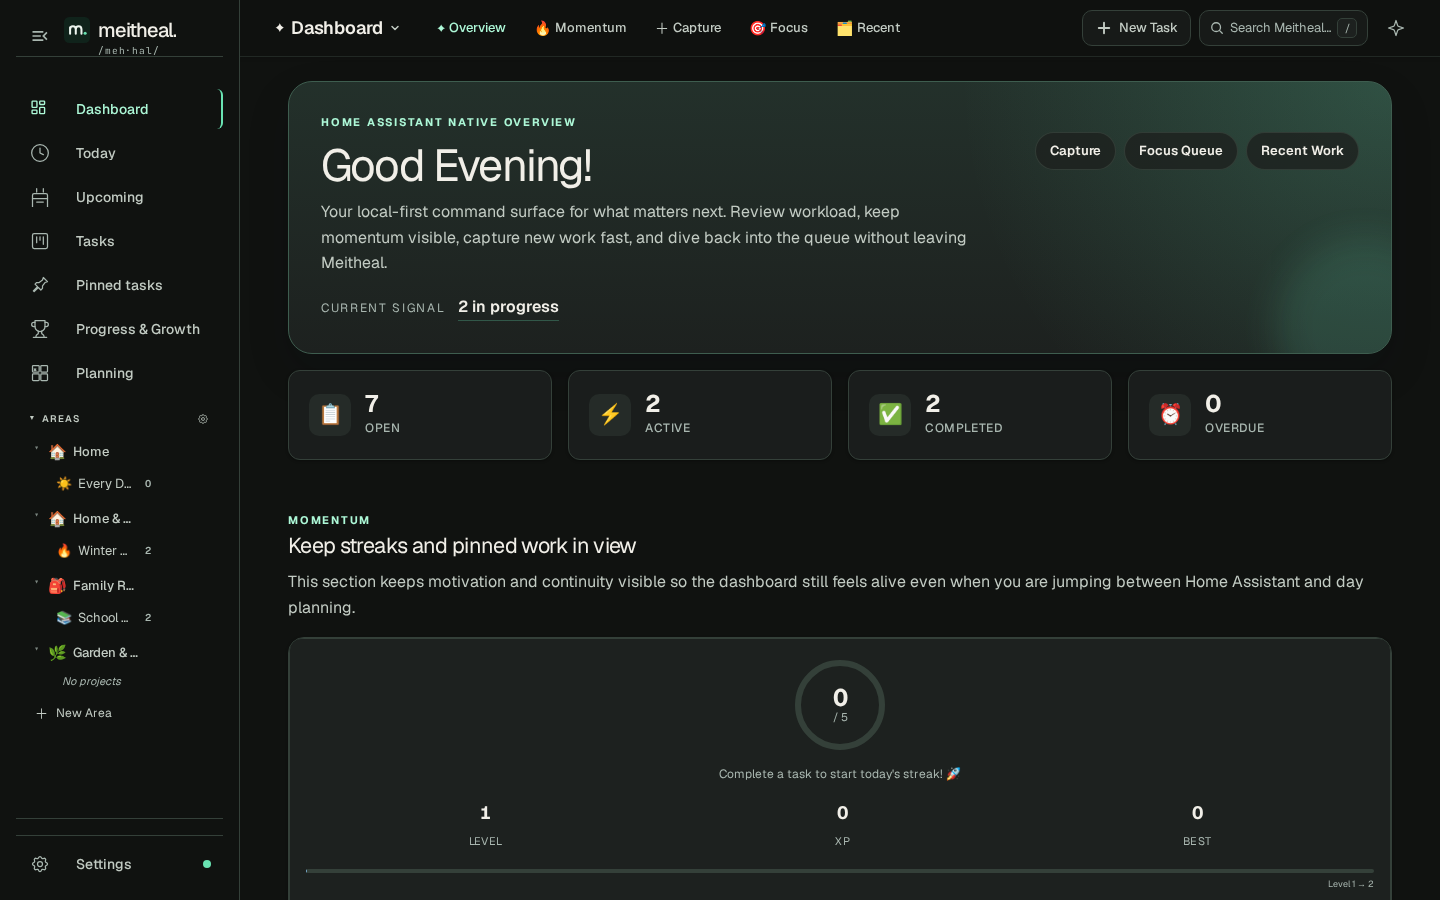
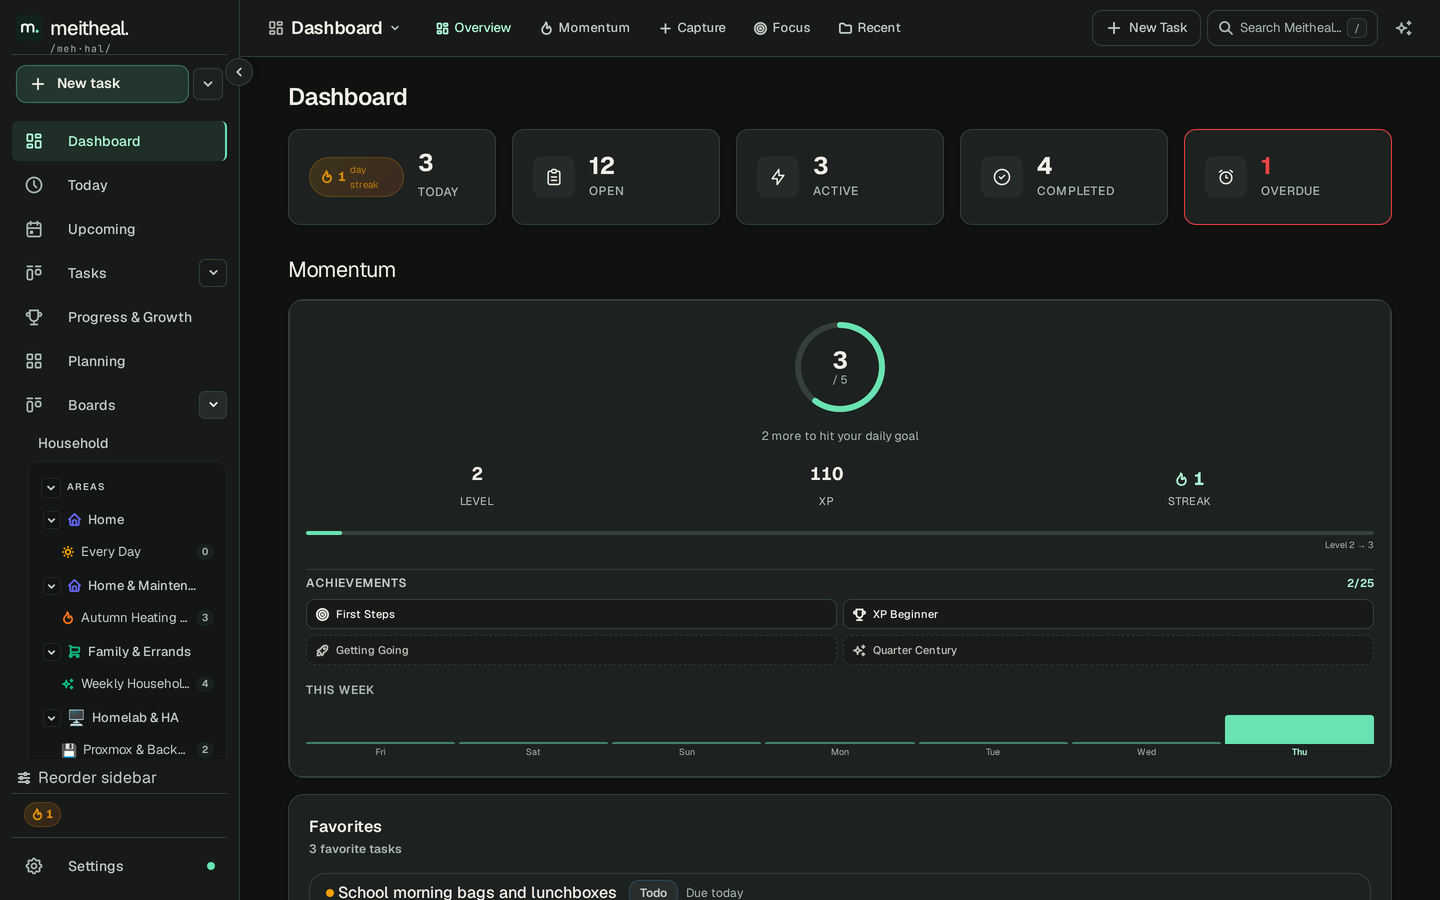
docs: refresh README screenshots, capture runbook, and workflow guides

diff --git a/docs/kcs/screenshot-and-media-capture.md b/docs/kcs/screenshot-and-media-capture.md
@@ -1,0 +1,74 @@
+---
+type: "Runbook"
+title: "Screenshot and Media Capture"
+description: "Regenerate README screenshots and local feature demos from a clean production build."
+---
+
+# Screenshot and Media Capture
+
+Use [the capture script](../../scripts/capture-marketing-media.mjs) to regenerate `README.md` screenshots and local feature animations against the real production Astro build without exposing personal household data or Astro dev-toolbar overlays.
+
+## Prerequisites
+
+Install workspace dependencies, build the web server, verify Chromium is available for Playwright, and confirm `ffmpeg` and `ffprobe` are on `PATH` (no extra npm image libraries are required; `sharp` is not used):
+
+```sh
+pnpm install --frozen-lockfile
+pnpm --filter @meitheal/web build
+pnpm --filter @meitheal/tests exec playwright install chromium
+ffmpeg -version && ffprobe -version
+```
+
+## Commands
+
+Generate only the static PNG stills and update `docs/screenshots/`:
+
+```sh
+node scripts/capture-marketing-media.mjs --stills-only --update-readme
+```
+
+Generate all 10 PNG stills, 5 CDP feature loops (`.mp4` + `.gif`), and the stitched launch highlight reel, syncing the 6 `README.md` stills to `docs/screenshots/`:
+
+```sh
+node scripts/capture-marketing-media.mjs --update-readme
+```
+
+Pass `--out <dir>` to write artifacts outside the default `.planning/marketing/media` directory, or `--base-url <url>` to capture an already-running server instance.
+
+## Isolation and Determinism
+
+Each run keeps host and developer data separate from generated media:
+
+1. **Isolated SQLite fixture**: Creates a temporary SQLite database in `os.tmpdir()` and initializes its schema with `apps/web/scripts/migrate.mjs` (`MEITHEAL_DB_URL=file:<tmp>/meitheal.db`).
+2. **Production Astro server**: Spawns `apps/web/scripts/serve.mjs` with `NODE_ENV=production` and `TZ=Europe/Dublin`, stripping Home Assistant or cloud environment credentials and restarting cleanly between seeding and capture loops to keep the 300 req/min rate-limit bucket clear.
+3. **Synthetic household seed**: Populates invented household tasks, routines, multi-day Gantt schedules, promoted cards, and Home Assistant automation fixtures (`X-Automation-Source: ha`), locking `theme` to `"dark"` (`Emerald Isle`) before capture.
+
+## Repository Hygiene and Size Budgets
+
+Keep tracked repository artifacts minimal while storing heavy animations locally:
+
+| Output | Location | Git & Docker Status | Size / Format Budget |
+|---|---|---|---|
+| Capture automation | `scripts/capture-marketing-media.mjs` | Tracked in Git | Zero runtime dependencies outside Playwright + `ffmpeg` |
+| `README` & add-on stills | `docs/screenshots/{today,dashboard,kanban,table,calendar,settings}.png` | Tracked in Git (`brand-banner.png` kept untouched) | `1440×900` (`300 KB` max per file via lossless scale + palette fallback) |
+| Campaign bonus stills | `.planning/marketing/media/stills/{timeline,focus-mode,eisenhower,mobile-today}.png` | Ignored (`.gitignore` & `.dockerignore`) | Up to `400 KB` (`390×844` for mobile) |
+| Feature motion loops | `.planning/marketing/media/loops/*.{mp4,gif}` | Ignored (`.gitignore` & `.dockerignore`) | `<= 2.8 MB` Discourse GIF ladder; `1280×720` H.264 High 4.1 MP4 |
+| Stitched highlight reel | `.planning/marketing/media/reddit/meitheal-launch-reel.mp4` | Ignored (`.gitignore` & `.dockerignore`) | `h264` `yuv420p` 30fps + stereo AAC + `+faststart` |
+
+`meitheal-hub/README.md` and `meitheal-hub-canary/README.md` reference `docs/screenshots/brand-banner.png`, `today.png`, and `kanban.png` directly from `dev`. Always visually inspect updated `docs/screenshots/*.png` files before pushing. Working notes, progress logs, launch drafts, and heavy media belong under `.planning/` (never under `docs/` or `apps/web/public/`).
+
+## Verification and Troubleshooting
+
+After updating screenshots, verify OKF documentation rules, repo standards, and tracked diff scope:
+
+```sh
+pnpm --filter @meitheal/tests test governance/docs-okf.spec.ts governance/repo-standards.spec.ts
+git status --short
+```
+
+| Symptom | Cause & Recovery |
+|---|---|
+| `Missing production build at .../dist/server/entry.mjs` | Run `pnpm --filter @meitheal/web build` before invoking the script. |
+| `Database does not exist. Run the migration command` | Fixed automatically when not using `--base-url`; with `--base-url`, run `node apps/web/scripts/migrate.mjs` against your target DB first. |
+| `HTTP 429 Rate limit exceeded` | Avoid running against a busy persistent server without `--base-url`; default mode restarts the local server between batches. |
+| `PNG ... exceeding cap 300000` or `GIF ... exceeding 2800000` | Trim hold durations in `captureLoops` or verify `ffmpeg` supports `palettegen`/`paletteuse`. |

diff --git a/README.md b/README.md
@@ -34,20 +34,21 @@ Meitheal sits naturally between **Home Assistant automations** and **everyday ho
 | Multi-step seasonal prep | **Winter Boiler and Heating Prep** project | Tracks contractor quotes, radiator bleeding, and pressure checks in **Kanban** or **Table** |
 
 - **Start in Today**: Review due work, recurring routines, carried-forward items, and evening wrap-up in one focused view.
-- **Plan at the right altitude**: Switch between **Kanban**, **Table**, **Calendar**, and **Timeline**, or search everything instantly via [Search Hub](docs/kcs/search-hub-guide.md) (`/` or `Ctrl/Cmd + K`).
+- **Plan at the right altitude**: Organize work across dedicated **Boards**, switch between **Kanban**, **Table**, **Calendar**, and **Timeline**, open distraction-free **Focus Mode** with RICE scoring and **Auto-score with Assist**, or search everything via [Search Hub](docs/kcs/search-hub-guide.md) (`/` or `Ctrl/Cmd + K`).
+- **Look & Feel made for Home Assistant**: Choose **Emerald Isle**, **Knight Rider**, **Light**, or enable **Match Home Assistant theme** so surfaces and accents follow your Home Assistant dashboard.
 - **Stay inside Home Assistant**: Two-way calendar and `todo.meitheal_tasks` sync, Home Assistant sensors and services, Assist voice intents, webhooks, and scoped LLM/MCP agent tokens.
 - **Use on any screen — even offline**: Open through Home Assistant Ingress, launch via Companion deep links, or [install the PWA](docs/kcs/pwa-offline-guide.md) with offline task queuing.
 - **Own your data completely**: Local SQLite database covered by [Home Assistant backups](docs/kcs/home-assistant-backup-and-restore.md), plus one-click JSON, CSV, and raw SQLite exports.
 
 ## Inside Meitheal
 
-| Today — Daily Focus & Routines | Household Dashboard & Focus Queue |
+| Today — Priority Stack & Routines | Dashboard — Household Overview & Momentum |
 |---|---|
-| ![Meitheal Today view showing due tasks, evening review, and priority focus](docs/screenshots/today.png) | ![Meitheal Dashboard showing household stats, favorites, quick capture, and open queue](docs/screenshots/dashboard.png) |
-| **Kanban & Project Board** | **Home Assistant-Native Settings** |
-| ![Meitheal Kanban board showing Backlog, Todo, In Progress, and Done household tasks](docs/screenshots/kanban.png) | ![Meitheal Settings shell showing appearance swatches, regional options, and keyboard shortcuts](docs/screenshots/settings.png) |
+| ![Meitheal Today view showing Priority stack, quick capture, streak stats, and carried-forward triage](docs/screenshots/today.png) | ![Meitheal Dashboard showing task counts, momentum ring, XP streak, and focus queue](docs/screenshots/dashboard.png) |
+| **Kanban & Promoted Cards** | **Look & Feel & Theme Matching** |
+| ![Meitheal Kanban board showing Backlog, Todo, In Progress, and Done columns with color-tinted Promoted cards](docs/screenshots/kanban.png) | ![Meitheal Look and Feel Settings showing Emerald Isle, Match Home Assistant theme toggle, accent swatches, and appearance controls](docs/screenshots/settings.png) |
 
-Additional views include structured [Table planning](docs/screenshots/table.png) and month-grid [Calendar scheduling](docs/screenshots/tasks.png).
+Additional views include structured [Table planning](docs/screenshots/table.png), month-grid [Calendar scheduling with day agenda drawer](docs/screenshots/calendar.png), **Timeline (Gantt)** bars, distraction-free **Focus Mode**, and Urgent-vs-Important **Eisenhower** prioritization. Contributors can regenerate screenshots and local demos via the [screenshot and media capture runbook](docs/kcs/screenshot-and-media-capture.md).
 
 ## Ubiquitous Language
 
@@ -142,6 +143,10 @@ On Home Assistant Core 2026.11 or later, an active administrator can also enable
 - [Community conduct](CODE_OF_CONDUCT.md)
 - [Support](SUPPORT.md)
 - [Report a security problem privately](SECURITY.md)
+
+### How Meitheal Is Built
+
+Meitheal combines human Product Management direction with structured AI-assisted engineering workflows — led by review-loop skills in the [Elephant-Goldfish Model (EGM)](https://github.com/google/elephant-goldfish-model) (including [`egm-review-loop`](https://github.com/google/elephant-goldfish-model/tree/main/skills/egm-review-loop)), [GSD (Get Shit Done)](https://github.com/gsd-build/get-shit-done), and [gstack](https://github.com/garrytan/gstack) — paired with automated Playwright and Home Assistant pytest suites and continuous security scanning. Per-run agent logs stay outside Git, while durable architectural choices live in [ADRs](docs/decisions/index.md).
 
 ## Supporting Meitheal
 

diff --git a/CONTRIBUTING.md b/CONTRIBUTING.md
@@ -24,7 +24,7 @@ Keep discussion respectful and focused on the work. Use invented examples when a
 | Regression or compatibility checks | [Tests](tests) |
 | User help, runbooks, or design decisions | [Documentation index](docs/index.md) |
 
-Prefer Astro and native browser behavior where they fit. Keep domain rules with their owning context, use public package APIs across contexts, and reuse existing behavior before adding another abstraction. Update the relevant support guide with any behavior change, and record architectural decisions in [docs/decisions](docs/decisions).
+Prefer Astro and native browser behavior where they fit. Keep domain rules with their owning context, use public package APIs across contexts, and reuse existing behavior before adding another abstraction. Update the relevant support guide with any behavior change, and record architectural decisions in [docs/decisions](docs/decisions) using the [ADR template](docs/decisions/adr-template.md).
 
 ## Run and verify locally
 
@@ -86,7 +86,7 @@ Coverage is reported to [Codecov](https://codecov.io/gh/ryan-winkler/meitheal) f
 
 ## Code review standard
 
-Every pull request is reviewed before it is merged. The maintainer reviews pull requests from contributors. When the project has more than one maintainer, a maintainer's own pull request is reviewed by a different maintainer; until then the maintainer reviews their own change against this list after the automated review finishes. Automated review (CodeRabbit, CodeQL, Codacy) supports human review but does not replace it.
+Every pull request is reviewed before it is merged. The maintainer reviews pull requests from contributors. When the project has more than one maintainer, a maintainer's own pull request is reviewed by a different maintainer; until then the maintainer reviews their own change against this list after the automated review finishes. Structured planning and iterative review-loop workflows — using [Elephant-Goldfish Model (EGM)](https://github.com/google/elephant-goldfish-model) (`egm-review-loop`: [skills/egm-review-loop](https://github.com/google/elephant-goldfish-model/tree/main/skills/egm-review-loop)), [GSD (Get Shit Done)](https://github.com/gsd-build/get-shit-done), and [gstack](https://github.com/garrytan/gstack) — alongside CodeRabbit, CodeQL, and Codacy support human review but do not replace it. Keep individual agent-run transcripts and non-ADR working decision logs outside Git under `.planning/`.
 
 The reviewer checks that:
 

diff --git a/docs/index.md b/docs/index.md
@@ -33,10 +33,11 @@ okf_version: "0.2"
 - [Home Assistant publishing checklist](kcs/ha-publishing-checklist.md) - Check App packaging and installation.
 - [Release runbook](kcs/releasing.md) - Understand release channels and how to verify builds.
 - [Dependency pinning and code scanning](kcs/dependency-pinning.md) - Update pinned build inputs and review security alerts.
+- [Screenshot and media capture](kcs/screenshot-and-media-capture.md) - Regenerate README screenshots and local feature demos from a clean production build.
 - [Licensing guide](kcs/licensing.md) - Find the license boundaries for source, integrations, and distribution.
 
 # Browse the bundle
 
 - [Documentation bundle](knowledge-bundle.md) - Scope and maintenance of the Meitheal documentation bundle.
 - [Runbooks and guides](kcs/index.md) - Browse user help, integration guides, and operational procedures.
-- [Decision records](decisions/index.md) - Browse architecture and product decisions.
+- [Architecture decision records (ADRs)](decisions/index.md) - Browse durable architectural, product, security, and policy decisions.

diff --git a/AGENTS.md b/AGENTS.md
@@ -232,7 +232,8 @@ Changes **must** be verified in the correct environment tier before completion.
 ## KCS Rules
 
 - New behavior requires updated docs and a runbook touchpoint
-- ADRs capture architectural and legal/security decisions
+- Commit only durable Architecture Decision Records (ADRs) to `docs/decisions/` for lasting architectural, product, security, licensing, or bounded policy decisions; state technical rationale directly without citing individual agent runs
+- Keep non-ADR decision records, individual agent run logs, persona audits, review receipts, and working progress notes outside Git under `.planning/` — never inside `docs/`
 - Error messages should support self-service debugging
 
 ## Licensing Boundaries

diff --git a/docs/kcs/index.md b/docs/kcs/index.md
@@ -48,6 +48,7 @@
 - [Releasing Meitheal](releasing.md) - Understand release channels and how to verify builds.
 - [Dependency pinning and code scanning](dependency-pinning.md) - Update pinned build inputs and review security alerts.
 - [Green Canary benchmark](green-canary-benchmark.md) - Qualify the fixed workload, memory limits and driver telemetry.
+- [Screenshot and media capture](screenshot-and-media-capture.md) - Regenerate README screenshots and local feature demos from a clean production build.
 - [Licensing & Distribution — KCS Runbook](licensing.md) - Find the license boundaries for source, integrations, and distribution.
 
 # Task automation and configuration
